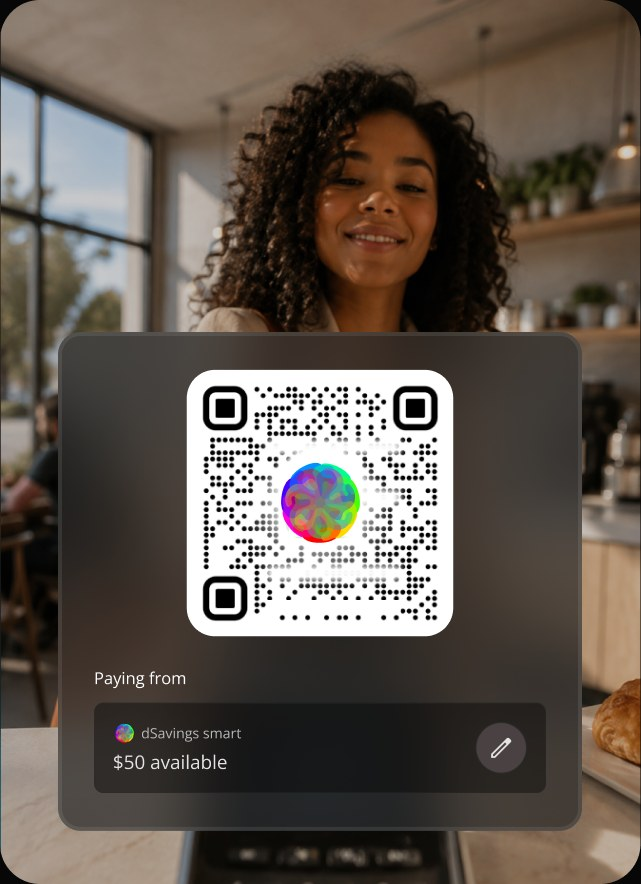
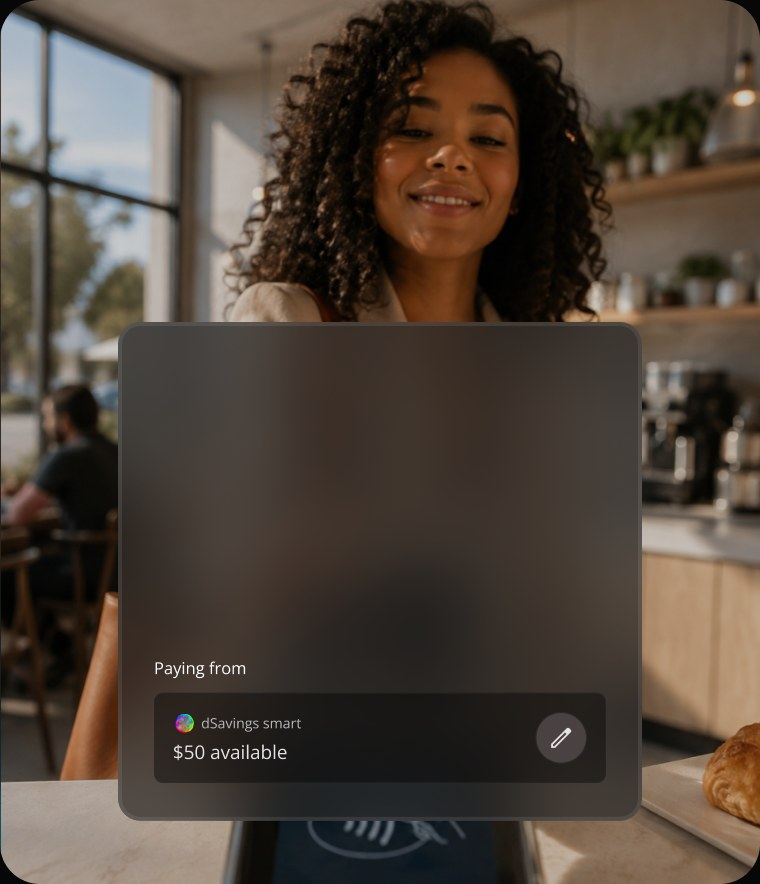
Replace the last how-it-works card from Figma 3265-80232
The design changed that column: the card is 380 wide now against the other
three at 320, and it grows leftward into the gap so the row still ends on the
same 1678 measure — the gap ahead of it closes from 106 to 66. Its copy stays
on the 340 column, sitting in from the card's right edge.

The artwork changed with it: the QR code is gone and the panel is a plain
frosted block over the "Paying from / $50 available" row. Two independent
renders of the node agree on that, so it is the design and not a bad export.

Also picks up a detail missed the first time round: "(COMING SOON)" is a grey
#6F7274 against the label's blue, not the same colour as the body copy.

On narrow screens the card goes back to matching the other three, since an
odd one out reads as ragged once the row stacks.

diff --git a/index.html b/index.html
@@ -259,12 +259,20 @@ button{font:inherit;color:inherit;background:none;border:0;cursor:pointer}
 .how-steps{position:relative;z-index:2;display:grid;grid-template-columns:repeat(4,1fr);gap:5.518vw;padding:4.581vw 6.247vw 0}
 .step{position:relative}
 .step-card{position:relative;width:94.19%;aspect-ratio:320.24/442;overflow:hidden;border-radius:6.25%/4.53%}
+/* Figma 3265-80232: the last card is wider than the other three — 380 against their
+   320 — and it grows leftward into the gap, so its right edge stays on the same 1678
+   measure the row is built on. Its copy shifts with it and keeps the 340 column. */
+.how-steps .step:last-child{margin-left:-2.082vw}
+.how-steps .step:last-child .step-card{width:19.781vw;aspect-ratio:380/442;border-radius:5.27%/4.53%}
+/* the wider card makes its 1fr track grow with it; the copy stays on the 340 column
+   the design keeps it on, so it sits in from the card's right edge */
+.how-steps .step:last-child .step-copy{width:17.699vw}
 .step-card img{display:block;width:100%;height:100%;object-fit:cover}
 .step-copy{margin-top:1.458vw;display:flex;flex-direction:column;gap:.625vw}
 .step-eyebrow{font-family:'Titillium Web',sans-serif;font-weight:600;font-size:clamp(.65rem,.833vw,1rem);letter-spacing:.1em;line-height:1.1;color:#278EFF;text-transform:uppercase}
 .step-h{font-family:'Titillium Web',sans-serif;font-weight:600;font-size:clamp(1rem,1.249vw,1.5rem);letter-spacing:-.03em;line-height:1.1;color:#fff}
 .step-body{font-family:'Open Sans',sans-serif;font-weight:400;font-size:clamp(.75rem,.729vw,.875rem);line-height:1.4;color:#999}
-.step-note{color:#999;font-weight:600}
+.step-note{color:#6F7274;font-weight:600}
 
 /* Figma 3157-69704: a true 1200 measure — 626 for the accordion, 80 gap, the rest
    for the heading. The old 5vw side padding sat inside the max-width and was eating
@@ -316,6 +324,10 @@ button{font:inherit;color:inherit;background:none;border:0;cursor:pointer}
 
 @media (max-width:980px){
   .how-steps{grid-template-columns:repeat(2,1fr);gap:4vw}
+  /* stacked, an odd card out would just look ragged */
+  .how-steps .step:last-child{margin-left:0}
+  .how-steps .step:last-child .step-card{width:94.19%;aspect-ratio:320.24/442;border-radius:6.25%/4.53%}
+  .how-steps .step:last-child .step-copy{width:auto}
   .how-title{padding-left:4.25vw}
   .faq{flex-direction:column;gap:40px}
   .faq-list{width:100%}
@@ -324,7 +336,7 @@ button{font:inherit;color:inherit;background:none;border:0;cursor:pointer}
 @media (max-width:760px){
   .how-steps{grid-template-columns:1fr;gap:8vw;padding:8vw 8vw 0}
   .how-title{padding-left:8.5vw}
-  .step-card{width:100%}
+  .step-card,.how-steps .step:last-child .step-card{width:100%}
   .step-eyebrow{font-size:.8rem}
   .step-h{font-size:1.35rem}
   .step-body{font-size:.9rem}
